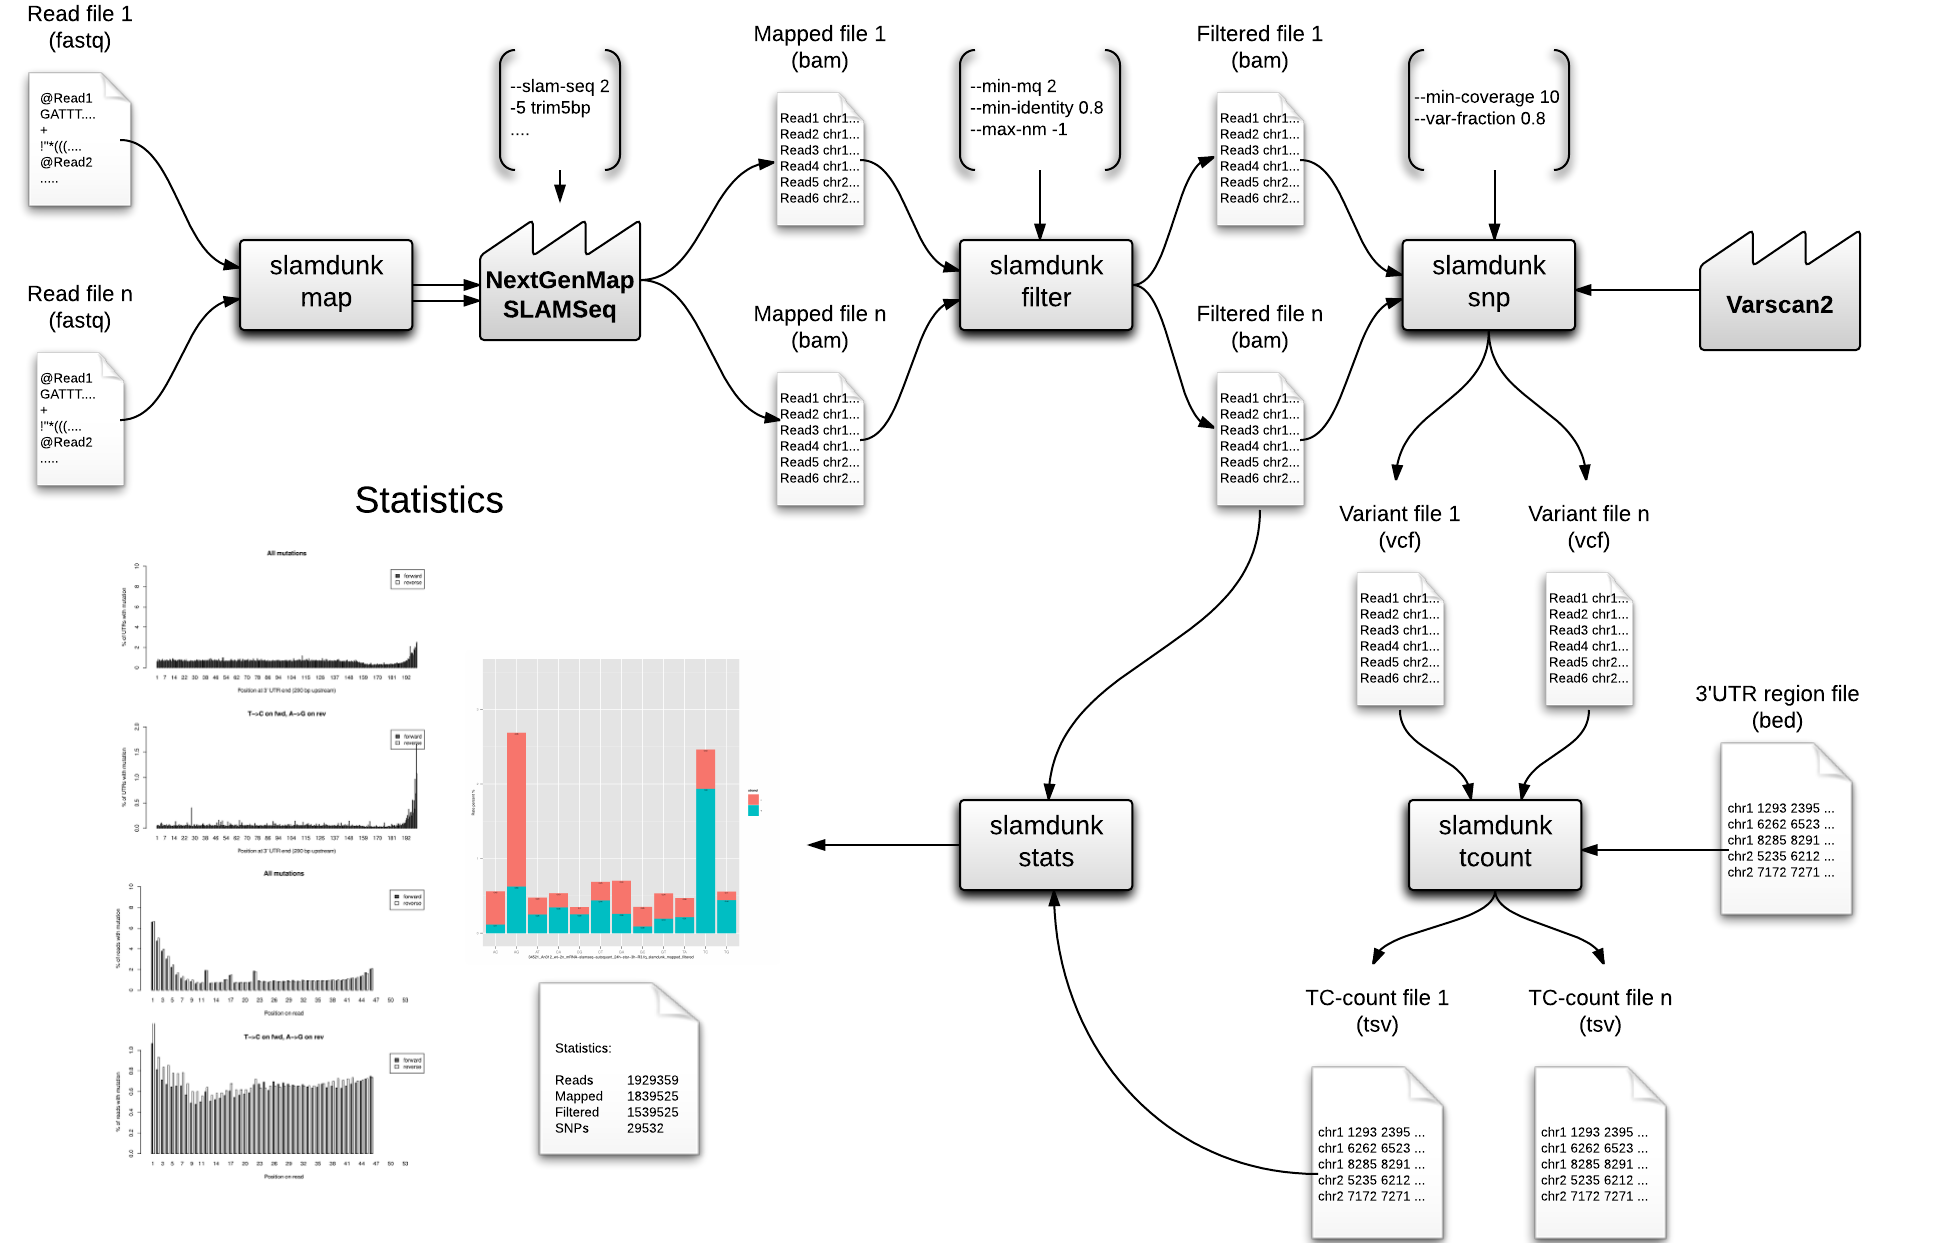
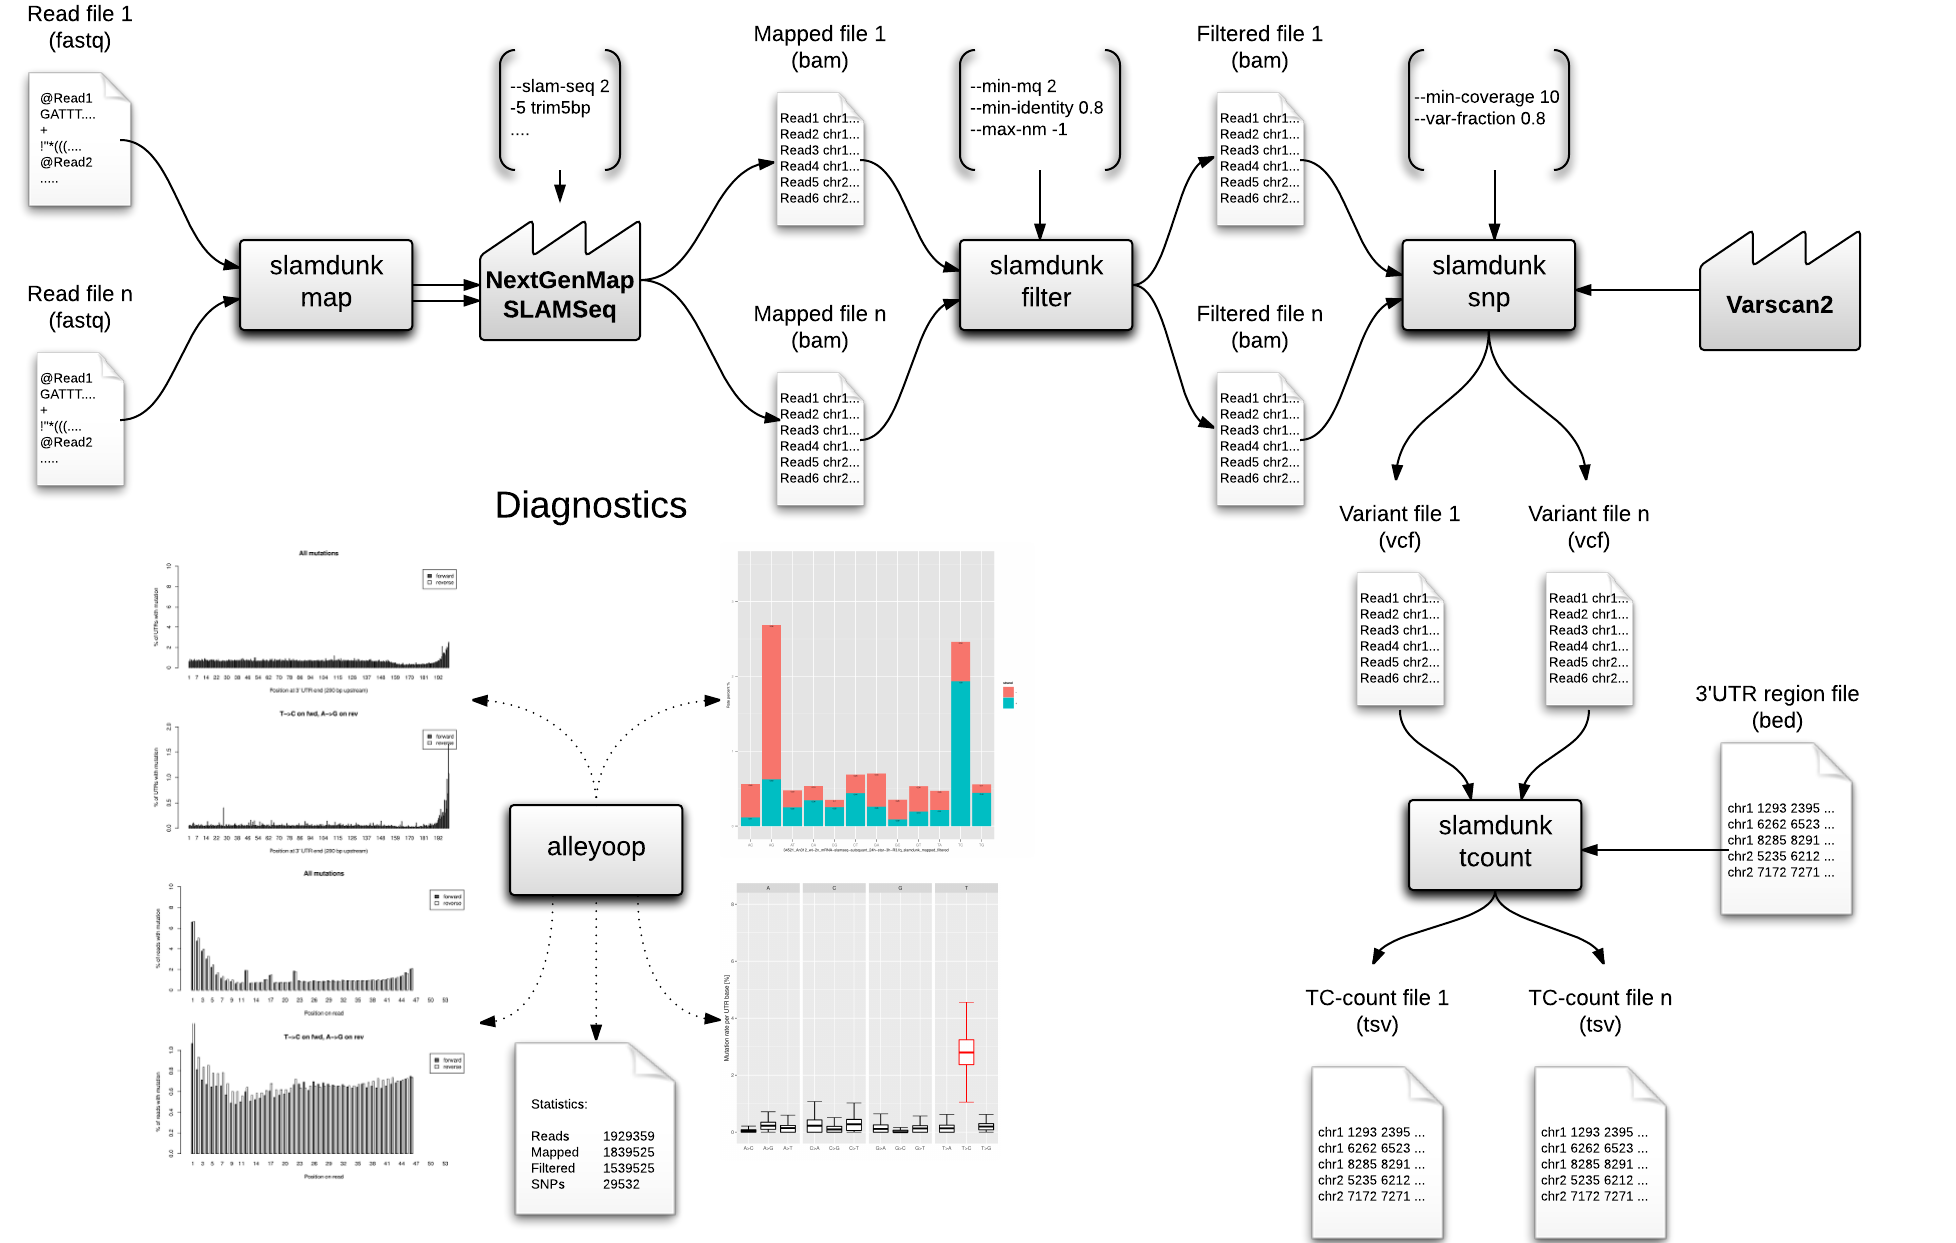
Updated Usage section.

diff --git a/doc/source/Usage.rst b/doc/source/Usage.rst
@@ -1,43 +1,45 @@
 Usage
 =====
 
-The idea is to always process all samples with one command line call. Output files typically get the same name as the input files with a certain prefix (e.g. "slamdunk_mapped"). *Please, let us know what you think about this!*
+*Slamdunk* is a modular analysis software. Modules are dubbed *dunks* and each dunk builds upon the results from the previous dunks.
+
+The flow of *Slamdunk* is depicted in the following scheme:
+
 
 .. image:: img/slamdunk-pipline.png
 
-The command line interface follows the "samtools/bwa" style. Meaning that all commands are available through one central executable/script called slamdunk (located in the bin direcotry)
+The idea is to always process all samples with one command line call of a given dunk. Output files typically get the same name as the input files with a certain prefix (e.g. "slamdunk_mapped").
+The command line interface follows the "samtools/bwa" style. Meaning that all commands are available through the central executable/script *slamdunk* (located in the bin directory)
 
-Available modules are::
+Available dunks are::
 
-    'map', 'filter', 'snp', 'dedup', 'count', 'stats.rates', 'stats.summary', 
-    'stats.tcperreadpos', 'dump.reads', 'all' (not implemented yet)
-
+    'map', 'filter', 'snp', 'count', 'all'
 
 Calling a module with --help shows all possible parameters text:
 
 .. code:: bash
 
-    bin/slamdunk snp --help
-    usage: slamdunk snp [-h] -o OUTPUTDIR -f FASTA [-c COV] [-a VAR] [-t THREADS]
-    bam [bam ...]
+    slamdunk map --help
+    
+    usage: slamdunk map [-h] -r REFERENCEFILE -o OUTPUTDIR [-5 TRIM5] [-n TOPN]
+                    [-t THREADS] [-q] [-l]
+                    bam [bam ...]
+   positional arguments:
+         bam                   Bam file(s)
 
-    positional arguments:
-      bam                   Bam file(s)
-
-    optional arguments:
-      -h, --help            show this help message and exit
-    -o OUTPUTDIR, --outputDir OUTPUTDIR
-      Output directory for mapped BAM files.
-    -f FASTA, --fasta FASTA
-      Reference fasta file
-    -c COV, --min-coverage COV
-      Minimimum coverage to call variant
-    -a VAR, --var-fraction VAR 
-      Minimimum variant fraction variant
-    -t THREADS, --threads THREADS
-      Thread number
-
-
+   optional arguments:
+         -h, --help            show this help message and exit
+         -r REFERENCEFILE, --reference REFERENCEFILE
+                        Reference fasta file
+         -o OUTPUTDIR, --outputDir OUTPUTDIR
+                        Output directory for mapped BAM files.
+         -5 TRIM5, --trim-5p TRIM5
+                        Number of bp removed from 5' end of all reads.
+         -n TOPN, --topn TOPN  Max. number of alignments to report per read
+         -t THREADS, --threads THREADS
+                        Thread number
+         -q, --quantseq        Run plain Quantseq alignment without SLAM-seq scoring
+         -l, --local           Use a local alignment algorithm for mapping.
 
 All steps create a log file that has the same name as the output file. Typically there is one log file per sample and task (makes parallel execution easier).
 Command line output is limited to a minimum at the moment. If a sample is finished a "." is printed (very basic progress bar).

diff --git a/doc/source/Installation.rst b/doc/source/Installation.rst
@@ -8,10 +8,16 @@ This section covers the installation of *slamdunk*. Alternatively one could also
 .. code:: bash
 
     # Having root permissions
-    pip install pysam joblib pybedtools
+    pip install pysam joblib pybedtools intervaltree pandas numpy
     
     # Local user only
-    pip install --user pysam joblib pybedtools
+    pip install --user pysam joblib pybedtools intervaltree pandas numpy
+    
+1. Install required R libraries:
+
+.. code:: bash
+
+    R -e 'install.packages(c("getopt","ggplot2","gridExtra","RColorBrewer","lattice","matrixStats"),repos="https://cran.wu.ac.at/")'
     
 2. Clone from `Github <https://github.com/t-neumann/slamdunk>`_.
 
@@ -37,7 +43,7 @@ This section covers the installation of *slamdunk*. Alternatively one could also
 
     ./build-varscan.sh
     
-5. Run *slamdunk* (optionally put it in your *$PATH* to run it from anywhere).
+5. Run *slamdunk* (optionally put it in your *$PATH*  to run it from anywhere).
 
 .. code:: bash
 
